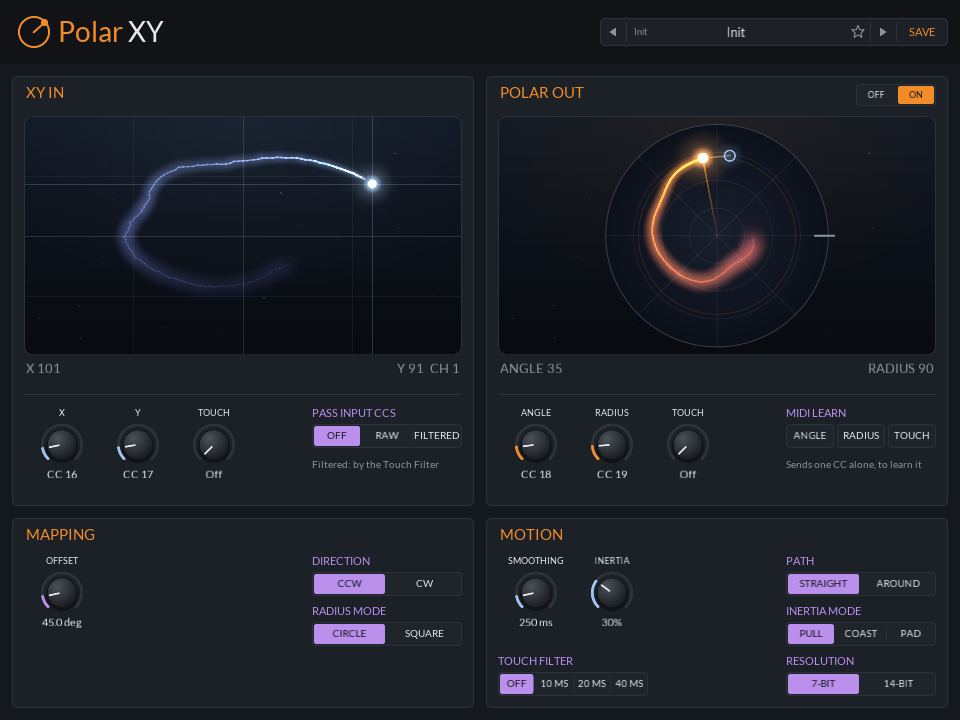
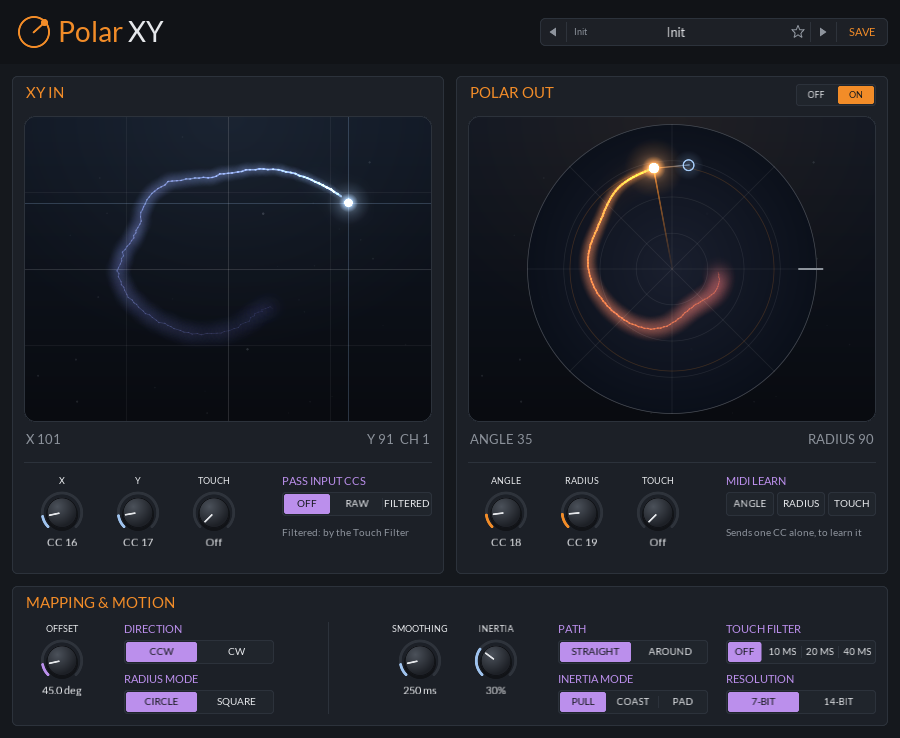
Polar XY panel: 4:3 views, one MAPPING & MOTION strip, tooltips on every control
Claude-Session: https://claude.ai/code/session_01FGswf59qWTBADcfP168sny

diff --git a/plugins/polar-xy/src/editor.cpp b/plugins/polar-xy/src/editor.cpp
@@ -18,6 +18,7 @@
 #include <jclap/ui/param_bindings.h>
 #include <jclap/ui/preset_bar.h>
 #include <jclap/ui/section.h>
+#include <jclap/ui/tooltip.h>
 #include <jclap/ui/segmented.h>
 #include <jclap/ui/update_notice.h>
 #include <jclap/ui/xy_pad.h>
@@ -481,6 +482,8 @@ public:
       add<ui::UpdateNotice>({196, 19, 196, 26});
       auto &presets = add<ui::PresetBar>({kDesignWidth - 360, 18, 348, 28}, factoryPresets(), kPresetFormat, host_);
       presets.setAccent(kOrange);
+      tip(presets, "Presets: the arrows step through them, the name opens the menu, the star marks a favorite and SAVE "
+                   "keeps the current settings.");
       presets.defaults = defaultValues();
       presets.currentName = [this] { return host_.presetName(); };
       presets.setCurrentName = [this](const std::string &n) { host_.setPresetName(n); };
@@ -498,6 +501,8 @@ public:
       xy_ = &add<InkPad>({24, 116, 408, 340}, cc, cc);
       xy_->setAccent(kBlue);
       orb_ = &add<OrbView>({468, 116, 408, 340});
+      tip(*xy_, "The last X/Y received, with its channel. Drag the dot to move the input yourself; double-click centres it.");
+      tip(*orb_, "The angle and radius sent for that channel, angle 0 at the tick on the right. The band shows where it's headed.");
       // The pad sets X then Y, so a move is sent once Y has it too, never as the new X with the old
       // Y. It goes at full resolution, not rounded to CC steps, for a smooth angle and radius.
       xy_->y().onChange = [this](double) { host_.dragInput(xy_->x().value, xy_->y().value); };
@@ -509,52 +514,76 @@ public:
       // Each view's CCs: three knobs (the touch CC Off until set), and at the right a column of what
       // else goes with them.
       constexpr float strip = 474.0f;
-      knob(kParamInX, "X", kBlue, 24, strip);
-      knob(kParamInY, "Y", kBlue, 100, strip);
-      knob(kParamTouchIn, "TOUCH", kBlue, 176, strip);
+      tip(knob(kParamInX, "X", kBlue, 24, strip), "X In CC: the controller's X axis comes in on this CC.");
+      tip(knob(kParamInY, "Y", kBlue, 100, strip), "Y In CC: the controller's Y axis comes in on this CC.");
+      tip(knob(kParamTouchIn, "TOUCH", kBlue, 176, strip),
+          "Touch In CC: the pad's finger-down CC, so Touch Filter knows exactly when each touch starts and ends.");
       // The input CCs sent on as well: as they came, or with the touch filtered.
-      choice(kParamPassThrough, "PASS INPUT CCS", {"OFF", "RAW", "FILTERED"}, 282, strip);
+      tip(choice(kParamPassThrough, "PASS INPUT CCS", {"OFF", "RAW", "FILTERED"}, 282, strip),
+          "Off: the input CCs are taken. Raw: they go on untouched too. Filtered: they go on cleaned by the Touch Filter.");
       hint("Filtered: by the Touch Filter", 282, strip + 52);
 
       // The angle/radius output on or off (the touch CC goes out either way), in the title row.
       auto &polar = add<ui::SegmentedSwitch>({796, 84, 80, 22}, std::vector<std::string>{"OFF", "ON"});
       polar.setAccent(kOrange);
       bindings_.bind(polar, kParamPolarOut);
+      tip(polar, "Polar Out: off sends no angle or radius at all, for passing the X/Y on by themselves. Touch Out still works.");
 
-      knob(kParamOutAngle, "ANGLE", kOrange, 468, strip);
-      knob(kParamOutRadius, "RADIUS", kOrange, 544, strip);
-      knob(kParamTouchOut, "TOUCH", kOrange, 620, strip);
+      tip(knob(kParamOutAngle, "ANGLE", kOrange, 468, strip), "Angle Out CC: the angle goes out on this CC, for the Orb's angle.");
+      tip(knob(kParamOutRadius, "RADIUS", kOrange, 544, strip), "Radius Out CC: the radius goes out on this CC, for the Orb's radius.");
+      tip(knob(kParamTouchOut, "TOUCH", kOrange, 620, strip),
+          "Touch Out CC: sends the touch on, 127 down and 0 up, in step with the filtered motion.");
       // Each sends its CC alone, for a MIDI learn on the receiving end.
       heading("MIDI LEARN", 726, strip);
       const char *const sends[] = {"ANGLE", "RADIUS", "TOUCH"};
+      const char *const sendTips[] = {"Sends the angle CC alone, so a MIDI Learn picks up just that one.",
+                                      "Sends the radius CC alone, so a MIDI Learn picks up just that one.",
+                                      "Sends the touch CC alone, so a MIDI Learn picks up just that one."};
       for (int i = 0; i < 3; ++i)
-         send(i, sends[i], {726.0f + i * 51.0f, strip + 18, 48, 24});
+         tip(send(i, sends[i], {726.0f + i * 51.0f, strip + 18, 48, 24}), sendTips[i]);
       hint("Sends one CC alone, to learn it", 726, strip + 52);
       // Over the angle/radius knobs and their sends while that output is off.
       polarVeils_ = {&add<Veil>({468, strip, 2 * kKnobWidth, kKnobHeight}), &add<Veil>({726, strip + 18, 99, 24})};
-      for (Veil *v : polarVeils_)
+      for (Veil *v : polarVeils_) {
          v->setVisible(false);
+         tips_.add(*v, "Polar Out is off. Turn it on in the title row to send the angle and radius.");
+      }
 
       // Between the two, in one row: where the angle starts and turns, and then, past a divider, how
       // the output follows.
       constexpr float row = 622.0f;
-      knob(kParamAngleOffset, "OFFSET", kPurple, 24, row, 1.0);
-      choice(kParamDirection, "DIRECTION", {"CCW", "CW"}, 124, row);
-      choice(kParamRadiusMode, "RADIUS MODE", {"CIRCLE", "SQUARE"}, 124, row + 50);
+      tip(knob(kParamAngleOffset, "OFFSET", kPurple, 24, row, 1.0),
+          "Angle Offset: turns where angle 0 sits, to line your controller up with the Orb.");
+      tip(choice(kParamDirection, "DIRECTION", {"CCW", "CW"}, 124, row),
+          "Which way the angle grows. Flip it if the Orb moves mirrored from your controller.");
+      tip(choice(kParamRadiusMode, "RADIUS MODE", {"CIRCLE", "SQUARE"}, 124, row + 50),
+          "Circle clamps the pad's corners to the circle's edge. Square lets the whole square edge reach full radius.");
       add<ui::Divider>({328, row, 1, 92});
-      knob(kParamSmoothing, "SMOOTHING", kBlue, 382, row, 10.0);
-      knob(kParamInertia, "INERTIA", kBlue, 458, row, 1.0);
-      choice(kParamMotionPath, "PATH", {"STRAIGHT", "AROUND"}, 558, row);
-      choice(kParamInertiaMode, "INERTIA MODE", {"PULL", "COAST", "PAD"}, 558, row + 50);
+      tip(knob(kParamSmoothing, "SMOOTHING", kBlue, 382, row, 10.0),
+          "Roughly how long the Orb takes to glide to the controller's position. At 0 it jumps.");
+      tip(knob(kParamInertia, "INERTIA", kBlue, 458, row, 1.0),
+          "Gives the Orb weight: slower to get going, it swings past the target and coasts on when the controller stops.");
+      tip(choice(kParamMotionPath, "PATH", {"STRAIGHT", "AROUND"}, 558, row),
+          "Straight glides across the pad in X/Y. Around moves the angle and radius, round the circle the short way.");
+      tip(choice(kParamInertiaMode, "INERTIA MODE", {"PULL", "COAST", "PAD"}, 558, row + 50),
+          "Pull draws the Orb to the controller. Coast follows only its movement. Pad works like a trackpad you can fling.");
       // How much of each touch's press and release a resistive pad's skitter is thrown away.
-      choice(kParamTouchFilter, "TOUCH FILTER", {"OFF", "10 MS", "20 MS", "40 MS"}, 726, row);
-      choice(kParamResolution, "RESOLUTION", {"7-BIT", "14-BIT"}, 726, row + 50);
+      tip(choice(kParamTouchFilter, "TOUCH FILTER", {"OFF", "10 MS", "20 MS", "40 MS"}, 726, row),
+          "Throws away each touch's skittery press and lift-off on a resistive pad, for this much latency.");
+      tip(choice(kParamResolution, "RESOLUTION", {"7-BIT", "14-BIT"}, 726, row + 50),
+          "14-bit sends each value as a CC pair (the CC and CC + 32) for smooth sweeps. Needs output CCs below 32.");
 
       // Shown when two inputs or two outputs share a CC, which the plugin won't convert.
       warning_ = &add<ui::Label>({kDesignWidth - 340, 48, 328, 14}, "", kOrange, visage::Font::kRight, 0.7f);
 
       sync();
       startTimer(1);
+   }
+
+   // Shows the tip of the `index`th control given one straight away (for screenshots).
+   void showTip(int index) {
+      if (index >= 0 && index < static_cast<int>(tipped_.size()))
+         tips_.show(*tipped_[index]);
    }
 
    // Steps at the display's rate (see FramePacer).
@@ -625,11 +654,20 @@ private:
    }
 
    // A switch under its title, every option in view.
-   void choice(clap_id id, const char *label, std::vector<std::string> options, float x, float y) {
+   ui::SegmentedSwitch &choice(clap_id id, const char *label, std::vector<std::string> options, float x, float y) {
       heading(label, x, y);
       auto &segments = add<ui::SegmentedSwitch>({x, y + 18, 150, 24}, std::move(options));
       segments.setAccent(kPurple);
       bindings_.bind(segments, id);
+      return segments;
+   }
+
+   // Gives `frame` a hover tip, and returns it.
+   template <typename T>
+   T &tip(T &frame, std::string text) {
+      tips_.add(frame, std::move(text));
+      tipped_.push_back(&frame);
+      return frame;
    }
 
    void sync() {
@@ -688,6 +726,9 @@ private:
    ui::Label *warning_ = nullptr;
    // What dims with the angle/radius output off, and whether it is on as shown.
    std::vector<Veil *> polarVeils_;
+   ui::Tooltips tips_;
+   // Every frame with a tip, in the order given (see showTip).
+   std::vector<visage::Frame *> tipped_;
    bool polarShown_ = true;
    // The angles last drawn (radians), held at the centre where there is none.
    double orbAngle_ = 0.0, targetAngle_ = 0.0;
@@ -700,7 +741,7 @@ std::unique_ptr<ui::Window> createEditor(EditorHost &host) {
 }
 
 bool renderScreenshot(EditorHost &host, int width, int height, const char *pngPath, double seconds,
-                      const std::function<void(double)> &advance) {
+                      const std::function<void(double)> &advance, int tip) {
    Panel panel(host);
    panel.stopTimer();
    const int frames = static_cast<int>(seconds * 60.0 + 0.5);
@@ -709,6 +750,9 @@ bool renderScreenshot(EditorHost &host, int width, int height, const char *pngPa
          advance(1.0 / 60.0);
       panel.step(1.0f / 60.0f);
    }
+   // Laid out at the final size first, so the tip lands under its control.
+   panel.setBounds(0, 0, static_cast<float>(width), static_cast<float>(height));
+   panel.showTip(tip);
    return ui::renderToPng(panel, width, height, pngPath);
 }
 

diff --git a/plugins/polar-xy/tools/screenshot.cpp b/plugins/polar-xy/tools/screenshot.cpp
@@ -1,10 +1,11 @@
-// Renders the panel to a PNG without a host: polar-xy-screenshot out.png [width height] [--polar-off]
+// Renders the panel to a PNG without a host: polar-xy-screenshot out.png [width height] [--polar-off] [--tip N]
 
 #include <algorithm>
 #include <cmath>
 #include <cstdio>
 #include <cstdlib>
 #include <cstring>
+#include <vector>
 
 #include "editor.h"
 #include "motion.h"
@@ -103,20 +104,29 @@ private:
 } // namespace
 
 int main(int argc, char **argv) {
-   // --polar-off, last, shows the panel with the angle/radius output switched off.
-   const bool polarOff = argc > 2 && std::strcmp(argv[argc - 1], "--polar-off") == 0;
-   if (polarOff)
-      --argc;
-   if (argc < 2) {
-      std::fprintf(stderr, "usage: %s out.png [width height] [--polar-off]\n", argv[0]);
+   // Flags anywhere: --polar-off shows the angle/radius output switched off, --tip N one control's
+   // hover tip. The rest are positional.
+   bool polarOff = false;
+   int tip = -1;
+   std::vector<const char *> args;
+   for (int i = 1; i < argc; ++i) {
+      if (std::strcmp(argv[i], "--polar-off") == 0)
+         polarOff = true;
+      else if (std::strcmp(argv[i], "--tip") == 0 && i + 1 < argc)
+         tip = std::atoi(argv[++i]);
+      else
+         args.push_back(argv[i]);
+   }
+   if (args.empty()) {
+      std::fprintf(stderr, "usage: %s out.png [width height] [--polar-off] [--tip N]\n", argv[0]);
       return 1;
    }
-   const int width = argc > 3 ? std::atoi(argv[2]) : polar_xy::kEditorWidth;
-   const int height = argc > 3 ? std::atoi(argv[3]) : polar_xy::kEditorHeight;
+   const int width = args.size() > 2 ? std::atoi(args[1]) : polar_xy::kEditorWidth;
+   const int height = args.size() > 2 ? std::atoi(args[2]) : polar_xy::kEditorHeight;
    DemoHost host;
    host.polarOut = !polarOff;
-   return polar_xy::renderScreenshot(host, width, height, argv[1], kSeconds,
-                                     [&host](double dt) { host.advance(dt); })
+   return polar_xy::renderScreenshot(host, width, height, args[0], kSeconds,
+                                     [&host](double dt) { host.advance(dt); }, tip)
              ? 0
              : 1;
 }

diff --git a/plugins/polar-xy/src/editor.h b/plugins/polar-xy/src/editor.h
@@ -44,8 +44,9 @@ std::unique_ptr<jclap::ui::Window> createEditor(EditorHost &host);
 
 // Draws the panel offscreen at the given pixel size and saves it as a PNG. It is animated for
 // `seconds` first, at 60 frames a second, calling `advance` with each frame's length before it, so
-// the host can move the output and the panel's ink has a trail to show.
+// the host can move the output and the panel's ink has a trail to show. `tip`, when not -1, shows
+// the hover tip of the panel's tip-th control (in the order the panel gives them).
 bool renderScreenshot(EditorHost &host, int width, int height, const char *pngPath, double seconds = 0.0,
-                      const std::function<void(double)> &advance = {});
+                      const std::function<void(double)> &advance = {}, int tip = -1);
 
 } // namespace polar_xy

diff --git a/plugins/polar-xy/README.md b/plugins/polar-xy/README.md
@@ -118,7 +118,7 @@ still moving.
 A resistive XY pad reads its position through the finger's contact, so for a few milliseconds while
 the finger presses down and while it lifts off, the contact is light and the readings are wrong: they
 skitter toward an edge or the centre, and the Orb jumps there and back. Smoothing hides that by
-smearing it into every move. **Touch Filter** (TOUCH FILTER in the MOTION section) instead finds the
+smearing it into every move. **Touch Filter** (TOUCH FILTER in the MAPPING & MOTION section) instead finds the
 edges of each touch and throws them away, leaving the rest exactly as it came:
 
 - X and Y that arrive within 3 ms of each other are one reading, so no point made of the new X and the
@@ -174,7 +174,7 @@ off (no angle or radius goes out at all). With Touch Filter off, Filtered is the
 
 A 7-bit CC gives the angle 127 steps round the circle (about 2.8 degrees each) and the radius 127
 steps, so a slow sweep moves in audible stairs. **Output Resolution** set to 14-bit (**RESOLUTION**
-in the MOTION section of the panel) sends each value as a standard 14-bit CC pair: the top 7 bits on the output CC,
+in the MAPPING & MOTION section of the panel) sends each value as a standard 14-bit CC pair: the top 7 bits on the output CC,
 then the bottom 7 on that CC + 32 (so the defaults, 18 and 19, also send on 50 and 51). That is
 16383 steps each. It needs both output CCs below 32; on higher ones the output stays 7-bit and the
 panel says so. Whether the receiving end reads the pair as one fine value is up to it; one that
@@ -191,9 +191,9 @@ and each MSB on its own is the whole value, so nothing changes for one.
 radius the plugin sent for that channel (a dash until both axes have arrived),
 with angle 0 marked by the tick on the right. Comparing the two shows what `Angle Offset` and
 `Direction` do. Under each view are its CCs: X, Y and Touch In with Pass Input CCs, and angle, radius
-and Touch Out with the MIDI learn buttons. Below them, **MAPPING** holds Angle Offset, Direction and
-Radius Mode, and **MOTION** Smoothing, Inertia, Touch Filter, Path, Inertia Mode and Resolution. Every
-setting is also a plain host parameter.
+and Touch Out with the MIDI learn buttons. Below them, **MAPPING & MOTION** holds Angle Offset, Direction
+and Radius Mode, then Smoothing, Inertia, Path, Inertia Mode, Touch Filter and Resolution. Hover over
+any control for a tip on what it does. Every setting is also a plain host parameter.
 
 The OFF / ON switch in the POLAR OUT title is **Polar Out**. Off, the view goes dark and says so, and
 the angle and radius CCs and their learn buttons are greyed out: nothing goes out on them. Touch Out
